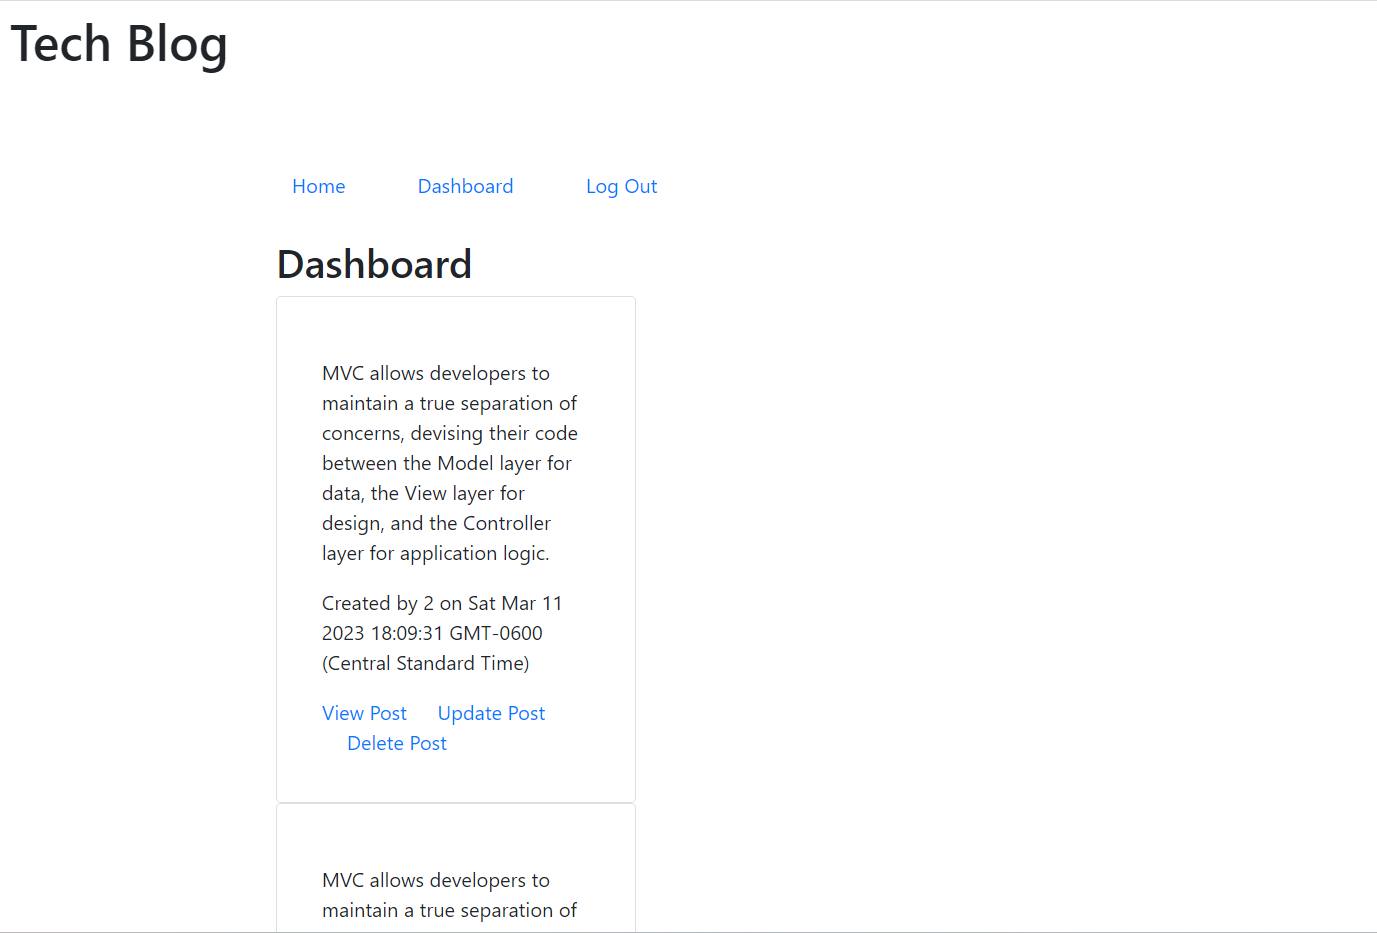
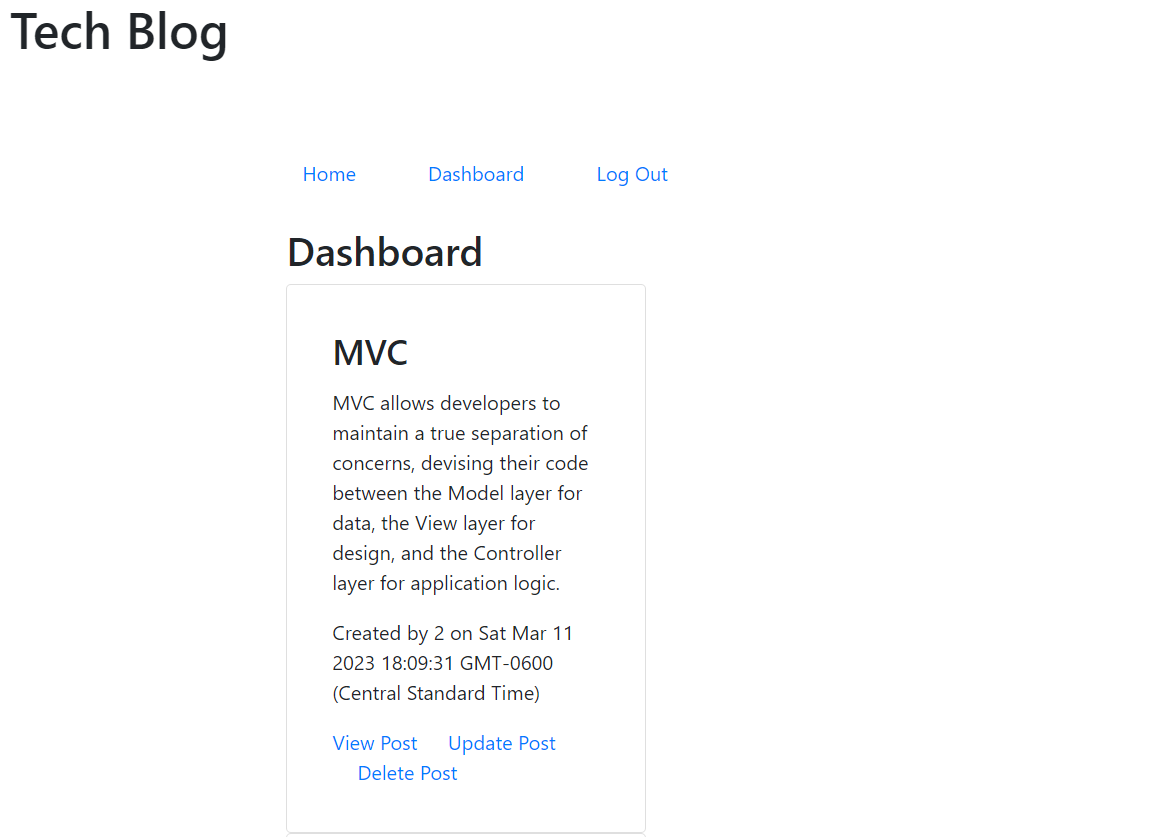
fixed issue with title not rendering to pages

diff --git a/controllers/dashboardRoutes.js b/controllers/dashboardRoutes.js
@@ -2,32 +2,9 @@ const router = require("express").Router();
 const { Post, User, Comment } = require("../models");
 const withAuth = require("../utils/auth");
 
-//if logged-in render all posts on the dashboard page
-// router.get('/', (req, res) => {
-//     Post.findAll({
-//         attributes: ['id', 'title', 'post_content', 'date_created'],
-//         include: [{
-//             model: User,
-//             attributes: ['username'],
-//         },],
-//     })
-//         .then(postData => {
-//             const posts = postData.map((post) => post.get({
-//                 plain: true
-//             }));
-//             res.render('dashboard', {
-//                 posts,
-//                 logged_in: req.session.logged_in
-//             });
-//         })
-//         .catch(err => {
-//             console.log(err);
-//             res.status(500).json(err);
-//         })
-// });
 router.get('/', withAuth, (req, res) => {
     Post.findAll({
-        attributes: ['id', 'post_content', 'user_id', 'date_created'],
+        attributes: ['id', "title", 'post_content', 'user_id', 'date_created'],
         include: {
             model: User,
             attributes: ['username']
@@ -44,36 +21,6 @@ router.get('/', withAuth, (req, res) => {
             res.status(500).json(err);
         });
 });
-
-
-// Post.findAll({
-//     attributes: ['id', 'title', 'post_content', 'date_created'],
-//     include: [{
-//         model: Comment,
-//         attributes: ['id', 'comment_content', 'post_id', 'user_id', 'date_created'],
-//         include: {
-//             model: User,
-//             attributes: ['username']
-//         }
-//     }],
-//     include: [{
-//         model: User,
-//         attributes: ['username'],
-//     },],
-// })
-//     .then(postData => {
-//         const posts = postData.map((post) => post.get({
-//             plain: true
-//         }));
-//         res.render('homepage', {
-//             posts,
-//             logged_in: req.session.logged_in
-//         });
-//     })
-//     .catch(err => {
-//         console.log(err);
-//         res.status(500).json(err);
-//     })
 
 router.get('/:id', async (req, res) => {
     try {

diff --git a/controllers/api/postRoutes.js b/controllers/api/postRoutes.js
@@ -31,17 +31,18 @@ router.get('/', (req, res) => {
 
 });
 
-  router.post('/', withAuth, (req, res) => {
-    Post.create({
-            title: req.body.title,
-            post_content: req.body.content,
-            user_id: req.session.user_id
-        })
-        .then(postData => res.json(postData))
-        .catch(err => {
-            console.log(err);
-            res.status(500).json(err);
-        });
+router.post('/add', (req, res) => {
+  Post.create({
+    title: req.body.title,
+    post_content: req.body.content,
+    user_id: req.session.user_id
+  })
+    .then((post) => {
+      res.status(200).json(post);
+    })
+    .catch((err) => {
+      res.status(400).json(err);
+    });
 });
 
 router.put('/:id', withAuth, async (req, res) => {

diff --git a/public/js/addpost.js b/public/js/addpost.js
@@ -5,7 +5,7 @@ const addPostFormHandler = async (event) => {
     const post_content = document.querySelector('#post-content').value.trim();
   
     if (title && post_content) {
-      const response = await fetch('/api/post', {
+      const response = await fetch('/api/post/add', {
         method: 'POST',
         body: JSON.stringify({ title, post_content }),
         headers: { 'Content-Type': 'application/json' },
@@ -25,6 +25,5 @@ const addPostFormHandler = async (event) => {
     }
   };
   
-  document
-    .querySelector('#submit-post')
-    .addEventListener('submit', addPostFormHandler);
+  const addButton = document.getElementById('add-post');
+  addButton.addEventListener('click', addPostFormHandler);

diff --git a/controllers/homeRoutes.js b/controllers/homeRoutes.js
@@ -4,7 +4,7 @@ const withAuth = require('../utils/auth');
 
 router.get('/', (req, res) => {
     Post.findAll({
-        attributes: ['id', 'post_content', 'user_id', 'date_created'],
+        attributes: ['id', "title", 'post_content', 'user_id', 'date_created'],
         include: {
             model: User,
             attributes: ['username']
